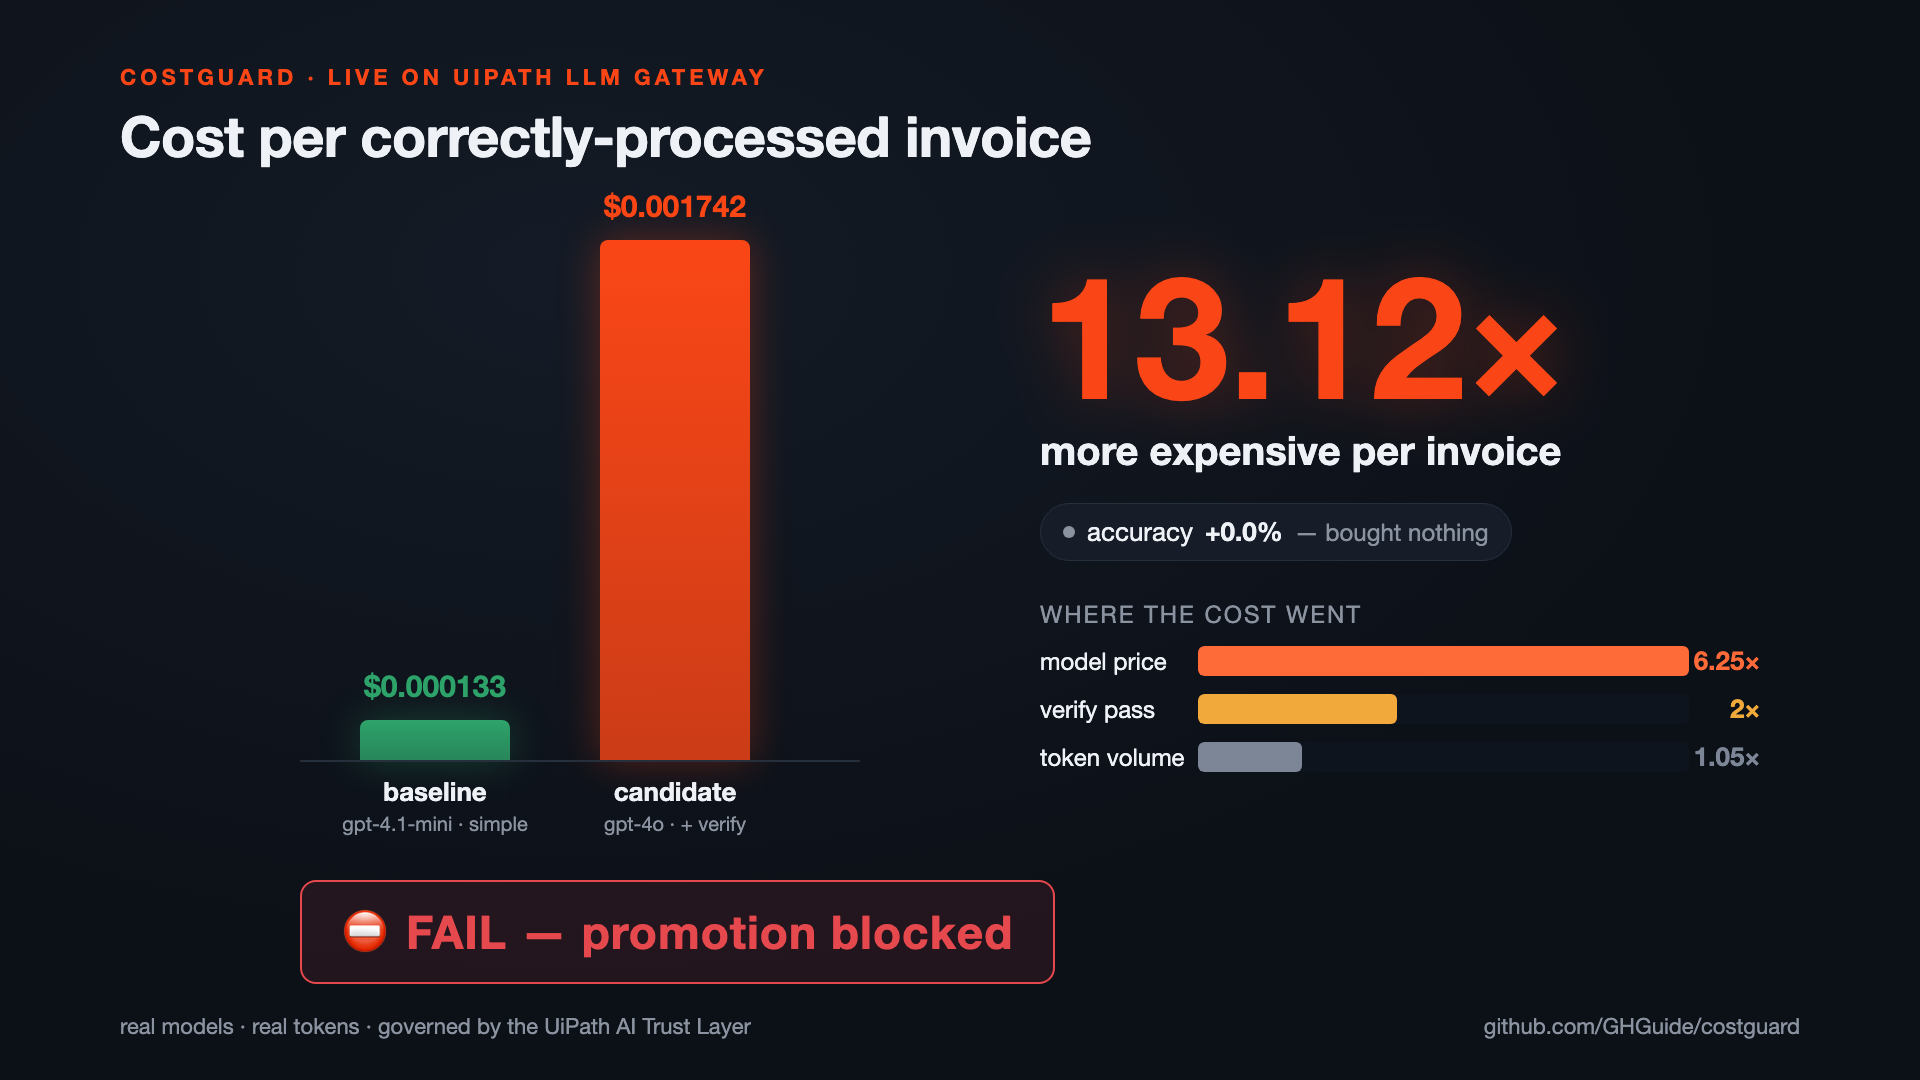
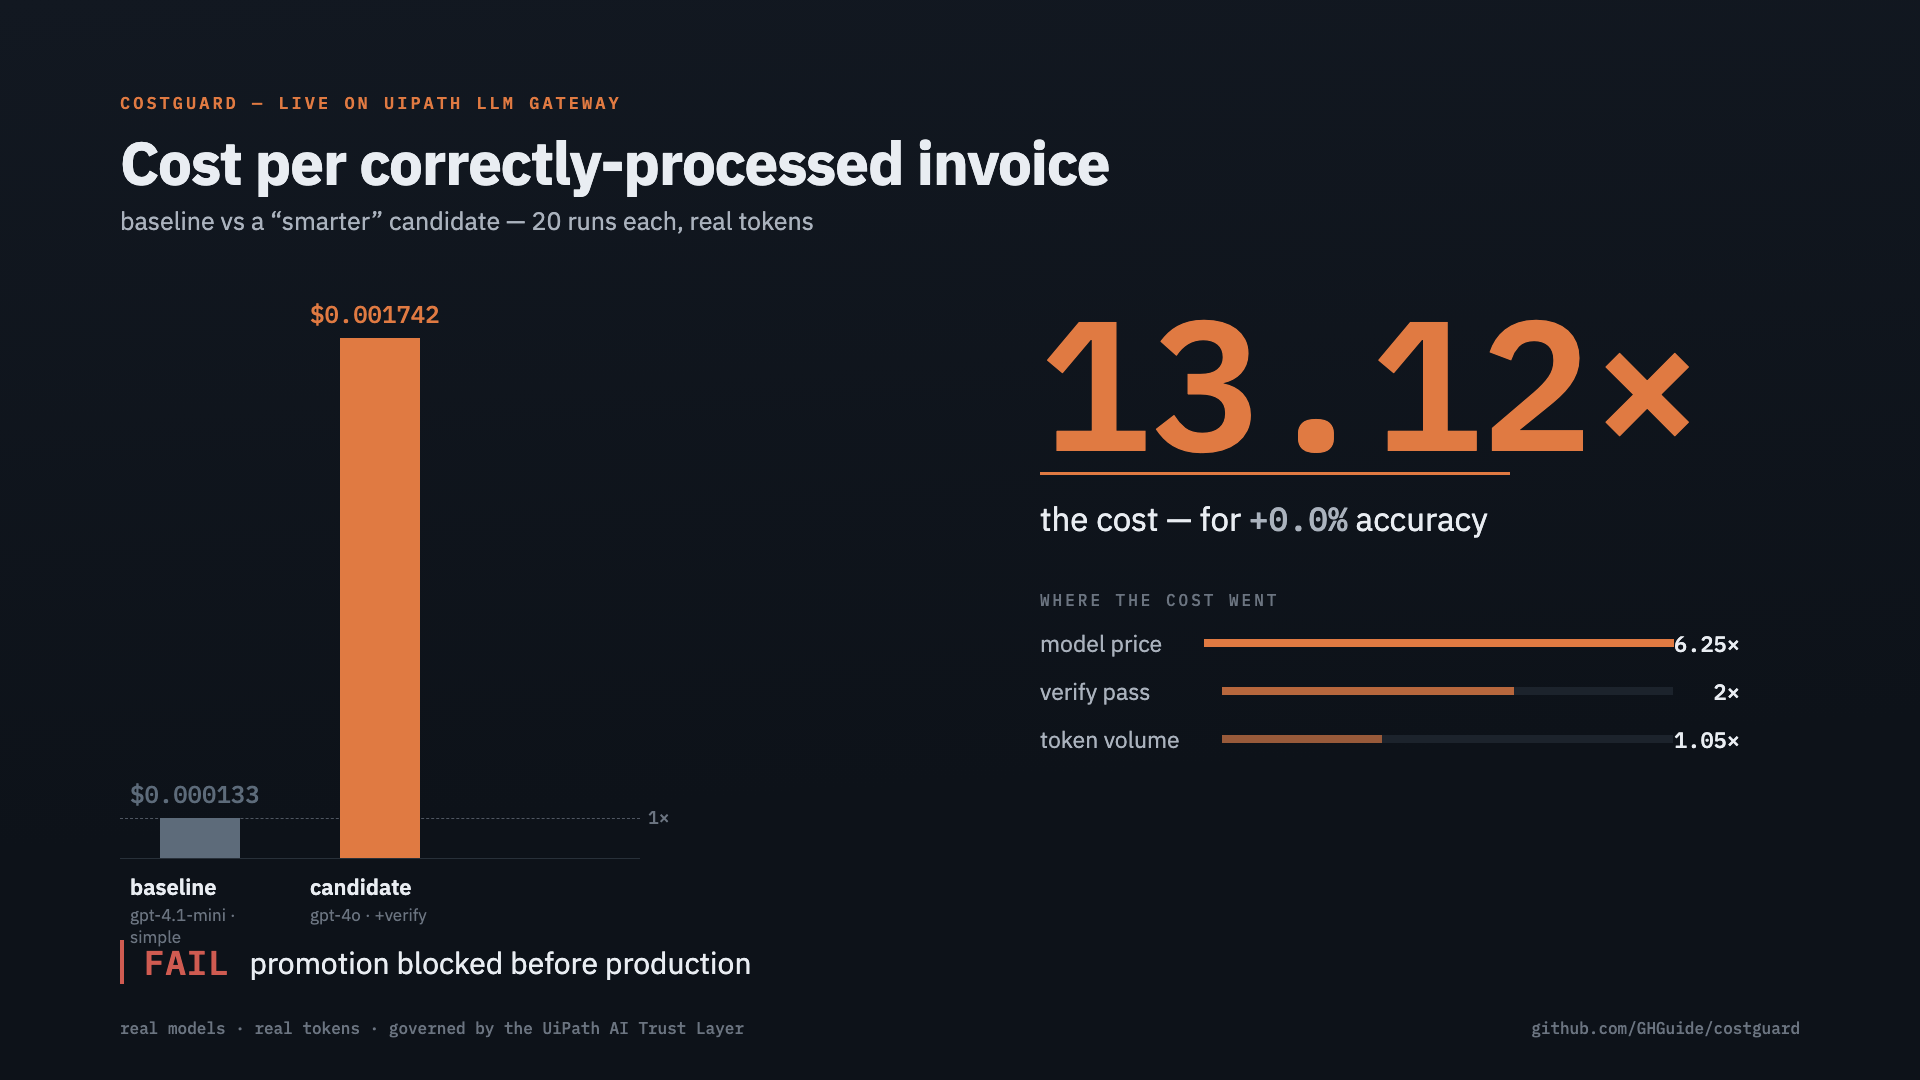
refactor(chart): de-AI the cost chart with motion-design craft (art direction)
Applied iart-ai/motion-design-skills (motion-art-direction, shot-composition,
color-motion) to kill the AI-dashboard look:

- Typography: real typeface — IBM Plex Sans + IBM Plex Mono (mono numerals read
  as a financial data tool, not a template).
- Color: restrained 1-accent palette; the UiPath orange desaturated + lightened
  so it doesn't vibrate on dark; baseline is a quiet slate, not a competing green.
  Removed all neon glow / box-shadow / text-shadow.
- Composition: 12-col grid, left-aligned editorial layout, hero figure on the
  right-third power point (off dead-center), generous negative space, a real
  "1× baseline" reference line anchoring the 13.12×.
- Restraint: dropped the ⛔ emoji and the rounded pills; FAIL is now a thin rule.
  One easing (Corporate cubic-bezier(0.2,0,0,1)), no overshoot; staged reveal
  (bars → figure → breakdown → verdict).

Re-rendered video/out/cost-regression.mp4 + docs/cost-regression.{png,gif}.

diff --git a/video/chart/src/CostRegression.tsx b/video/chart/src/CostRegression.tsx
@@ -1,142 +1,143 @@
 import React from "react";
-import { AbsoluteFill, useCurrentFrame, interpolate, spring, useVideoConfig } from "remotion";
+import { AbsoluteFill, useCurrentFrame, interpolate, Easing } from "remotion";
 import { scaleLinear } from "d3-scale";
+import { loadFont as loadSans } from "@remotion/google-fonts/IBMPlexSans";
+import { loadFont as loadMono } from "@remotion/google-fonts/IBMPlexMono";
+
+const { fontFamily: SANS } = loadSans("normal", { weights: ["400", "500", "600", "700"] });
+const { fontFamily: MONO } = loadMono("normal", { weights: ["500", "600"] });
 
 // ---- real numbers (docs/live-uipath-result.json — live on UiPath LLM Gateway) ----
 const BASE_CPS = 0.000133;
 const CAND_CPS = 0.001742;
 const RATIO = 13.12;
-const ACC_DELTA = 0.0;
 const FACTORS = [
-  { name: "model price", mult: 6.25, color: "#ff6a39" },
-  { name: "verify pass", mult: 2.0, color: "#f2a93b" },
-  { name: "token volume", mult: 1.05, color: "#7c8696" },
+  { name: "model price", mult: 6.25, w: 1.0 },
+  { name: "verify pass", mult: 2.0, w: 0.62 },
+  { name: "token volume", mult: 1.05, w: 0.34 },
 ];
 
-// ---- palette (UiPath dark) ----
+// ---- restrained palette: 1 accent + tinted neutrals, no blown-out saturation ----
 const C = {
-  bg0: "#0c1017",
-  bg1: "#141b26",
-  panel: "#161d28",
-  green: "#2ea36a",
-  orange: "#fa4616",
-  red: "#e5484d",
-  text: "#eef1f5",
-  muted: "#8b93a1",
-  line: "#26303d",
+  ink: "#e9edf2",
+  body: "#aab2bd",
+  muted: "#6b7480",
+  line: "#283039",
+  hair: "#1c232c",
+  base: "#5d6b7a", // baseline data — a quiet slate, not a competing hue
+  accent: "#e07a42", // UiPath orange, desaturated + lightened so it doesn't vibrate
+  fail: "#cf5b51",
 };
 
-const ease = (t: number) => 1 - Math.pow(1 - t, 3);
-const prog = (f: number, a: number, b: number) =>
-  ease(interpolate(f, [a, b], [0, 1], { extrapolateLeft: "clamp", extrapolateRight: "clamp" }));
-const fade = (f: number, a: number, len = 12) =>
-  interpolate(f, [a, a + len], [0, 1], { extrapolateLeft: "clamp", extrapolateRight: "clamp" });
-
-const tnum: React.CSSProperties = { fontVariantNumeric: "tabular-nums", fontFeatureSettings: '"tnum"' };
-const FONT =
-  '-apple-system, "Segoe UI", "Helvetica Neue", Inter, Arial, sans-serif';
+// Corporate motion personality: one easing, no overshoot.
+const CORP = Easing.bezier(0.2, 0, 0, 1);
+const ramp = (f: number, a: number, b: number) =>
+  interpolate(f, [a, b], [0, 1], { easing: CORP, extrapolateLeft: "clamp", extrapolateRight: "clamp" });
+const rise = (f: number, a: number, dy = 10, len = 14): React.CSSProperties => ({
+  opacity: ramp(f, a, a + len),
+  transform: `translateY(${interpolate(ramp(f, a, a + len), [0, 1], [dy, 0])}px)`,
+});
+const mono: React.CSSProperties = { fontFamily: MONO, fontVariantNumeric: "tabular-nums" };
 
 export const CostRegression: React.FC = () => {
-  const frame = useCurrentFrame();
-  const { fps } = useVideoConfig();
+  const f = useCurrentFrame();
 
-  // bars grow 20->90, easing the VALUE (not just height)
-  const grow = prog(frame, 20, 90);
-  const baseShown = BASE_CPS * grow;
-  const candShown = CAND_CPS * grow;
-  const yScale = scaleLinear().domain([0, CAND_CPS]).range([0, 520]);
+  const M = 120; // outer margin (12-col grid)
+  const GROUND = 858;
+  const H = 520;
+  const yScale = scaleLinear().domain([0, CAND_CPS]).range([0, H]);
 
-  // multiplier count-up 78->120
-  const ratioShown = RATIO * prog(frame, 78, 120);
+  // hero = candidate bar (slowest), support = baseline (a touch quicker)
+  const candCps = CAND_CPS * ramp(f, 22, 94);
+  const baseCps = BASE_CPS * ramp(f, 22, 78);
+  const ratioShown = RATIO * ramp(f, 86, 122);
+  const refDraw = ramp(f, 66, 96); // "1x" reference line wipes in
+  const underline = ramp(f, 96, 128);
 
-  // verdict spring 210->
-  const vSpring = spring({ frame: frame - 212, fps, config: { damping: 12, stiffness: 120 } });
-
-  const GROUND = 760; // y of bar baseline
-  const barW = 150;
+  const bars = [
+    { x: M + 40, cps: baseCps, color: C.base, label: "baseline", sub: "gpt-4.1-mini · simple" },
+    { x: M + 220, cps: candCps, color: C.accent, label: "candidate", sub: "gpt-4o · +verify" },
+  ];
+  const hBase = yScale(BASE_CPS);
 
   return (
-    <AbsoluteFill style={{ background: `radial-gradient(1200px 700px at 30% 25%, ${C.bg1}, ${C.bg0})`, fontFamily: FONT, color: C.text }}>
-      {/* kicker + title */}
-      <div style={{ position: "absolute", top: 64, left: 120, opacity: fade(frame, 2) }}>
-        <div style={{ color: C.orange, fontSize: 22, fontWeight: 700, letterSpacing: 4 }}>
-          COSTGUARD · LIVE ON UIPATH LLM GATEWAY
-        </div>
-        <div style={{ fontSize: 56, fontWeight: 800, marginTop: 10, letterSpacing: -0.5 }}>
-          Cost per correctly-processed invoice
+    <AbsoluteFill style={{ background: "linear-gradient(176deg, #121821 0%, #0d1219 70%)", fontFamily: SANS, color: C.ink }}>
+      {/* ---- header (top-left, editorial) ---- */}
+      <div style={{ position: "absolute", left: M, top: 92, ...rise(f, 2) }}>
+        <div style={{ ...mono, fontSize: 17, letterSpacing: 3, color: C.accent, fontWeight: 600 }}>
+          COSTGUARD — LIVE ON UIPATH LLM GATEWAY
         </div>
       </div>
+      <div style={{ position: "absolute", left: M, top: 124, fontSize: 60, fontWeight: 700, letterSpacing: -1, ...rise(f, 6) }}>
+        Cost per correctly-processed invoice
+      </div>
+      <div style={{ position: "absolute", left: M, top: 204, fontSize: 25, color: C.body, ...rise(f, 12) }}>
+        baseline vs a “smarter” candidate — 20 runs each, real tokens
+      </div>
 
-      {/* ---- the two cost bars ---- */}
-      {[
-        { x: 360, cps: baseShown, full: BASE_CPS, color: C.green, label: "baseline", sub: "gpt-4.1-mini · simple" },
-        { x: 600, cps: candShown, full: CAND_CPS, color: C.orange, label: "candidate", sub: "gpt-4o · + verify" },
-      ].map((b, i) => {
+      {/* ---- bars (lower-left) ---- */}
+      {/* axis baseline */}
+      <div style={{ position: "absolute", left: M, top: GROUND, width: 520, height: 1, background: C.line, opacity: ramp(f, 18, 30) }} />
+      {/* 1x reference line at baseline height */}
+      <div style={{ position: "absolute", left: M, top: GROUND - hBase, width: 520 * refDraw, height: 1, borderTop: `1px dashed ${C.muted}`, opacity: 0.7 }} />
+      <div style={{ position: "absolute", left: M + 528, top: GROUND - hBase - 12, ...mono, fontSize: 18, color: C.muted, opacity: refDraw }}>1×</div>
+
+      {bars.map((b, i) => {
         const h = yScale(b.cps);
         return (
-          <div key={i} style={{ opacity: fade(frame, 16) }}>
-            {/* value label on top of bar */}
-            <div style={{ position: "absolute", left: b.x - 20, top: GROUND - h - 52, width: barW + 40, textAlign: "center", fontSize: 30, fontWeight: 700, ...tnum, color: b.color }}>
+          <div key={i} style={{ opacity: ramp(f, 18 + i * 3, 30 + i * 3) }}>
+            <div style={{ position: "absolute", left: b.x - 30, top: GROUND - h - 40, width: 140, ...mono, fontSize: 24, color: b.color }}>
               ${b.cps.toFixed(6)}
             </div>
-            {/* bar */}
-            <div style={{ position: "absolute", left: b.x, top: GROUND - h, width: barW, height: h, background: `linear-gradient(180deg, ${b.color}, ${b.color}cc)`, borderRadius: "8px 8px 0 0", boxShadow: `0 0 40px ${b.color}55` }} />
-            {/* caption */}
-            <div style={{ position: "absolute", left: b.x - 20, top: GROUND + 16, width: barW + 40, textAlign: "center" }}>
-              <div style={{ fontSize: 26, fontWeight: 700 }}>{b.label}</div>
-              <div style={{ fontSize: 20, color: C.muted, marginTop: 4 }}>{b.sub}</div>
+            <div style={{ position: "absolute", left: b.x, top: GROUND - h, width: 80, height: h, background: b.color }} />
+            <div style={{ position: "absolute", left: b.x - 30, top: GROUND + 14, width: 140 }}>
+              <div style={{ fontSize: 22, fontWeight: 600 }}>{b.label}</div>
+              <div style={{ fontSize: 17, color: C.muted, marginTop: 3 }}>{b.sub}</div>
             </div>
           </div>
         );
       })}
-      {/* ground line */}
-      <div style={{ position: "absolute", left: 300, top: GROUND, width: 560, height: 2, background: C.line, opacity: fade(frame, 16) }} />
 
-      {/* ---- big multiplier ---- */}
-      <div style={{ position: "absolute", left: 1040, top: 250, opacity: fade(frame, 80) }}>
-        <div style={{ fontSize: 170, fontWeight: 900, lineHeight: 1, color: C.orange, ...tnum, textShadow: `0 0 60px ${C.orange}55` }}>
+      {/* ---- hero figure (right third, off-center) ---- */}
+      <div style={{ position: "absolute", left: 1040, top: 300 }}>
+        <div style={{ ...mono, fontSize: 184, fontWeight: 600, lineHeight: 0.9, color: C.accent, ...rise(f, 86, 14, 16) }}>
           {ratioShown.toFixed(2)}×
         </div>
-        <div style={{ fontSize: 40, fontWeight: 700, marginTop: 6 }}>more expensive per invoice</div>
-        {/* accuracy chip */}
-        <div style={{ display: "inline-flex", alignItems: "center", gap: 12, marginTop: 28, padding: "12px 22px", background: C.panel, border: `1px solid ${C.line}`, borderRadius: 999, opacity: fade(frame, 116) }}>
-          <span style={{ width: 12, height: 12, borderRadius: 999, background: C.muted }} />
-          <span style={{ fontSize: 26, color: C.text }}>accuracy</span>
-          <span style={{ fontSize: 26, fontWeight: 800, ...tnum }}>+{ACC_DELTA.toFixed(1)}%</span>
-          <span style={{ fontSize: 24, color: C.muted }}>— bought nothing</span>
+        <div style={{ width: 470 * underline, height: 3, background: C.accent, marginTop: 6 }} />
+        <div style={{ fontSize: 33, color: C.ink, marginTop: 22, ...rise(f, 118) }}>
+          the cost — for <span style={{ ...mono, color: C.body }}>+0.0%</span> accuracy
         </div>
       </div>
 
-      {/* ---- factor breakdown ---- */}
-      <div style={{ position: "absolute", left: 1040, top: 600, width: 720, opacity: fade(frame, 142) }}>
-        <div style={{ fontSize: 24, color: C.muted, marginBottom: 16, letterSpacing: 2 }}>WHERE THE COST WENT</div>
-        {FACTORS.map((f, i) => {
-          const w = interpolate(prog(frame, 146 + i * 10, 196 + i * 10), [0, 1], [0, (f.mult / 6.25) * 620]);
+      {/* ---- where the cost went ---- */}
+      <div style={{ position: "absolute", left: 1040, top: 590, width: 700, ...rise(f, 150) }}>
+        <div style={{ ...mono, fontSize: 16, letterSpacing: 3, color: C.muted, marginBottom: 18 }}>WHERE THE COST WENT</div>
+        {FACTORS.map((fa, i) => {
+          const w = interpolate(ramp(f, 156 + i * 8, 206 + i * 8), [0, 1], [0, fa.w * 470]);
           return (
-            <div key={i} style={{ display: "flex", alignItems: "center", marginBottom: 16 }}>
-              <div style={{ width: 200, fontSize: 24, color: C.text }}>{f.name}</div>
-              <div style={{ width: 620, height: 30, background: "#0e141d", borderRadius: 6, overflow: "hidden" }}>
-                <div style={{ width: w, height: 30, background: f.color, borderRadius: 6 }} />
+            <div key={i} style={{ display: "flex", alignItems: "center", marginBottom: 18 }}>
+              <div style={{ width: 190, fontSize: 23, color: C.body }}>{fa.name}</div>
+              <div style={{ width: 470, height: 8, background: C.hair }}>
+                <div style={{ width: w, height: 8, background: C.accent, opacity: 0.45 + 0.55 * fa.w }} />
               </div>
-              <div style={{ width: 90, textAlign: "right", fontSize: 26, fontWeight: 700, ...tnum, color: f.color }}>{f.mult}×</div>
+              <div style={{ width: 70, textAlign: "right", ...mono, fontSize: 22, color: C.ink }}>{fa.mult}×</div>
             </div>
           );
         })}
       </div>
 
-      {/* ---- verdict ---- */}
-      <div style={{ position: "absolute", left: 300, top: 880, transform: `scale(${0.6 + 0.4 * vSpring})`, opacity: vSpring, transformOrigin: "left center" }}>
-        <div style={{ display: "inline-flex", alignItems: "center", gap: 18, padding: "20px 40px", background: `${C.red}1a`, border: `2px solid ${C.red}`, borderRadius: 16 }}>
-          <span style={{ fontSize: 46 }}>⛔</span>
-          <span style={{ fontSize: 46, fontWeight: 900, color: C.red, letterSpacing: 1 }}>FAIL — promotion blocked</span>
-        </div>
+      {/* ---- verdict (lower-left, no pill / no emoji) ---- */}
+      <div style={{ position: "absolute", left: M, top: 940, display: "flex", alignItems: "center", gap: 20, ...rise(f, 226, 8) }}>
+        <div style={{ width: 4, height: 44, background: C.fail }} />
+        <div style={{ ...mono, fontSize: 34, fontWeight: 600, color: C.fail, letterSpacing: 1 }}>FAIL</div>
+        <div style={{ fontSize: 30, color: C.ink }}>promotion blocked before production</div>
       </div>
 
-      {/* footer */}
-      <div style={{ position: "absolute", bottom: 40, left: 120, fontSize: 22, color: C.muted, opacity: fade(frame, 30) }}>
+      {/* ---- footers ---- */}
+      <div style={{ position: "absolute", left: M, top: 1018, ...mono, fontSize: 16, color: C.muted, opacity: ramp(f, 30, 44) }}>
         real models · real tokens · governed by the UiPath AI Trust Layer
       </div>
-      <div style={{ position: "absolute", bottom: 40, right: 120, fontSize: 22, color: C.muted, opacity: fade(frame, 30) }}>
+      <div style={{ position: "absolute", right: M, top: 1018, ...mono, fontSize: 16, color: C.muted, opacity: ramp(f, 30, 44) }}>
         github.com/GHGuide/costguard
       </div>
     </AbsoluteFill>